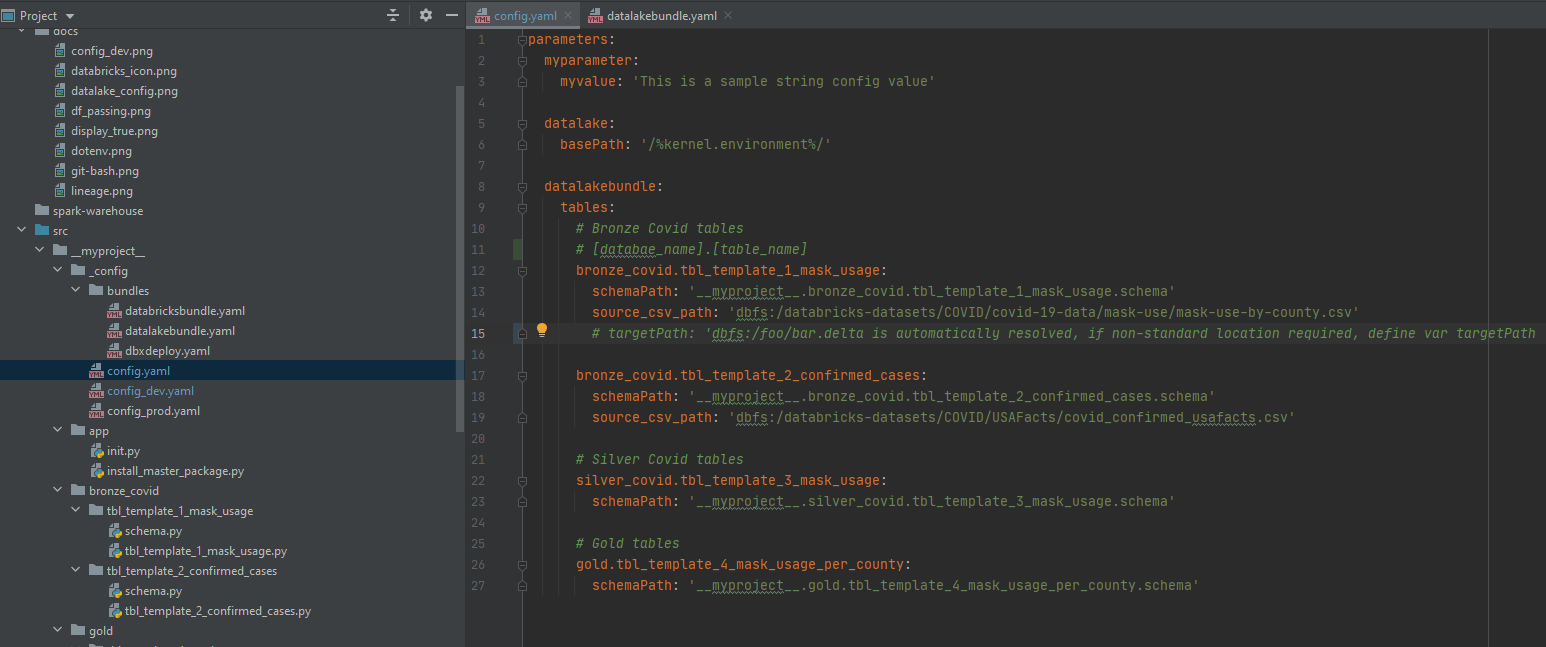
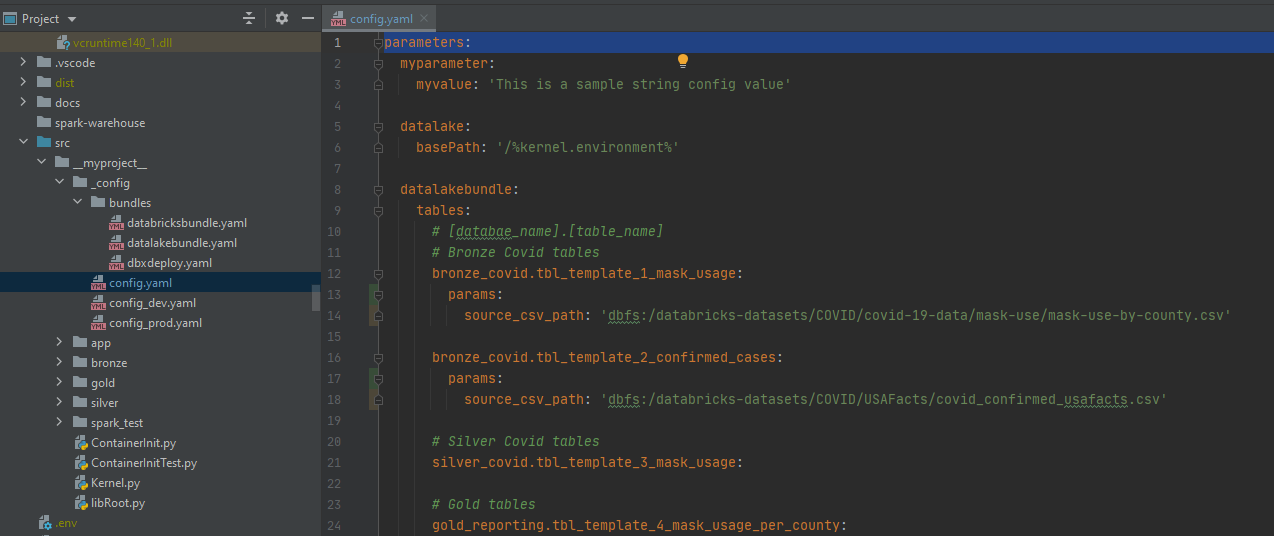
Added Widget and updated pipelines

Changed region(s): [[0.0, 0.0, 1.0, 1.0]]

diff --git a/src/__myproject__/bronze/covid/tbl_template_2_confirmed_cases/tbl_template_2_confirmed_cases.py b/src/__myproject__/bronze/covid/tbl_template_2_confirmed_cases/tbl_template_2_confirmed_cases.py
@@ -1,4 +1,46 @@
 # Databricks notebook source
+# MAGIC %md
+# MAGIC <img src="https://github.com/richardcerny/bricksflow/raw/rc-template-notebooks/docs/databricks_icon.png?raw=true" width=100/> 
+# MAGIC # Bricksflow example 2.
+# MAGIC 
+# MAGIC ## Tables over files
+# MAGIC You know parquet or delta, right. It is great format to store data. But for Data analyst it might be difficult to find and load these files for Blob Storage or S3. Because of that we try to keep everything in tables that are stored in Hive Metastore (=this is list of database and tables that show after opening Data icon on the left). Data analyst can just do quick analysys with SQL quickly and doesn't need to bother about loading paruqet format.
+# MAGIC 
+# MAGIC 
+# MAGIC ## Datalake structure
+# MAGIC There are many ways how to create database and table names. You can see two approaches in DataSentics. They are pretty similar just the naming is used  bit differently. As the common concept used by Datalake is Bronze, Silver, Gold. Before this become common we used sometinhg similar Raw, Parsed, Cleansed.
+# MAGIC 
+# MAGIC **Key concept of Datalake created by DataSentics:**
+# MAGIC - according to database and table name it is possible to find raw data in Storage and notebook/script that creates it and other way arround
+# MAGIC - keep all source files
+# MAGIC - ONE notebook/script creates only ONE table
+# MAGIC - tables are defined in config (not hardcoded in the code)
+# MAGIC - table schema is tight to the script/notebook
+# MAGIC - data is written to a table (not to a file)
+# MAGIC - ...
+# MAGIC 
+# MAGIC ## Datalake structure in Bricksflow
+# MAGIC Bricksflow uses so called Datalake bundle to maintain all tables within a config so you always now which tables are in use.
+# MAGIC By default it requires just a table name and it resolves the path where to save data automatically.
+# MAGIC 
+# MAGIC ##### Example of config.yaml
+# MAGIC <img src="https://github.com/richardcerny/bricksflow/raw/rc-template-notebooks/docs/datalake_config.png?raw=true" width=1200/> 
+# MAGIC 
+# MAGIC Non-default setting:
+# MAGIC - If you want to adjust Storage path resolver you can find it here: ``\src\__myproject__\_config\bundles\datalakebundle.yaml`. It uses simple python find function to split the table names according "_".
+# MAGIC - If you need exact path you can use variable `targetPath` to save a table to desired location. See commented example in config.yaml in picture above.
+# MAGIC 
+# MAGIC 
+# MAGIC 
+# MAGIC ### 1. Common Datalake layers Bronze, Silver, Gold
+# MAGIC Todo Image
+# MAGIC 
+# MAGIC ### 2. ADAP Layers dataoneoff, dataregular, solutions
+# MAGIC Todo Image
+# MAGIC 
+
+# COMMAND ----------
+
 # MAGIC %run ../../../app/install_master_package
 
 # COMMAND ----------
@@ -12,15 +54,17 @@ from datalakebundle.table.TableNames import TableNames
 
 # COMMAND ----------
 
-@dataFrameLoader(display=False)
-def read_csv_covid_confirmed_usafacts(spark: SparkSession):
+@dataFrameLoader("%datalakebundle.tables%", display=False)
+def read_csv_covid_confirmed_usafacts(parameters_datalakebundle, spark: SparkSession, logger: Logger):
+    source_csv_path = parameters_datalakebundle['bronze_covid.tbl_template_2_confirmed_cases']['params']['source_csv_path']
+    logger.info(f"Reading CSV from source path: `{source_csv_path}`.")
     return (
         spark
             .read
             .format('csv')
             .option('header', 'true')
             .option('inferSchema', 'true')
-            .load('dbfs:/databricks-datasets/COVID/USAFacts/covid_confirmed_usafacts.csv')
+            .load(source_csv_path)
     )
 
 # COMMAND ----------
@@ -34,10 +78,86 @@ def rename_columns(df: DataFrame):
 
 # COMMAND ----------
 
-@dataFrameSaver(rename_columns)
-def save_confirmed_cases(df: DataFrame, logger: Logger, tableNames: TableNames, tableManager: TableManager):
-    schema = tableManager.getSchema('bronze_covid.tbl_template_2_confirmed_cases')
+# MAGIC %md 
+# MAGIC #### Table schema
+# MAGIC Each table defined in config must be tight with its schema. So you need to create schema of a table if you need to create it.
+# MAGIC But don`t worry creating a schema is one of the last step you need to do while creating pipeline. Use display instead to show temporary results. Once you are happy with the result and you know exactly which columns are necessay then create a  schema.
+# MAGIC 
+# MAGIC <img src="https://github.com/richardcerny/bricksflow/raw/rc-template-notebooks/docs/table_schema.png?raw=true"/> 
+# MAGIC 
+# MAGIC 
+# MAGIC 
+# MAGIC You can get your defined schema from config using this command example:
+# MAGIC `schema = tableManager.getSchema('bronze_covid.tbl_template_2_confirmed_cases')`
+# MAGIC 
+# MAGIC 
+# MAGIC TODO add schema generator to Bricksflow 
+# MAGIC print(createPysparkSchema(add_parameter_from_config_df.schema))
 
+# COMMAND ----------
+
+# MAGIC %md
+# MAGIC TIP: Did you know that each function returns a dataframe. So if you need to test someting or get a schema for example, you can quickly do discovery on the dataframe produced by function. Just add postfix _df to function name and you can access the dataframe.
+# MAGIC 
+# MAGIC 
+# MAGIC 
+# MAGIC <img src="https://github.com/richardcerny/bricksflow/raw/rc-template-notebooks/docs/function_returns_df.png?raw=true"/> 
+# MAGIC 
+
+# COMMAND ----------
+
+print(rename_columns_df.printSchema())
+
+# COMMAND ----------
+
+# MAGIC %md
+# MAGIC #### Table Manager
+# MAGIC You have your table and schema defined in config, so you can now do number of thing with it and Table Manager will take care of the thing underhood - saves data to right path, solves different environments.
+# MAGIC 
+# MAGIC It gives you these options which you can use:
+# MAGIC - create -> create table (if already exists it throws an error)
+# MAGIC - delete -> delete table
+# MAGIC - recreate -> deleta and create a table (old data removed - also Delta log is removed => no Time travel)
+# MAGIC - exists -> check table existence and returns True/False
+# MAGIC - getSchema -> returns defined schema
+# MAGIC 
+# MAGIC Check examples of using these commands in cells bellow.
+
+# COMMAND ----------
+
+# DBTITLE 1,a) You want create a table once and than append data use 'exists' & 'create'
+@dataFrameSaver(rename_columns)
+def save_table_ronze_covid_tbl_template_2_confirmed_cases(df: DataFrame, logger: Logger, tableNames: TableNames, tableManager: TableManager):
+    outputTableName = tableNames.getByAlias('bronze_covid.tbl_template_2_confirmed_cases')
+    
+    # TableManager
+    # get defined schema
+    schema = tableManager.getSchema('bronze_covid.tbl_template_2_confirmed_cases')
+    
+    # Example of delete command
+    #tableManager.delete('bronze_covid.tbl_template_2_confirmed_cases')
+
+    if tableManager.exists('bronze_covid.tbl_template_2_confirmed_cases'):
+        logger.info(f"Table {outputTableName} exists. Appending...")
+    else:
+        tableManager.create('bronze_covid.tbl_template_2_confirmed_cases')
+        
+    logger.info(f"Saving data to table: {outputTableName}")
+    (
+        df
+            .select([field.name for field in schema.fields]) # Usage of schema from getSchema
+            .write
+            .option('partitionOverwriteMode', 'dynamic')
+            .insertInto(outputTableName)
+    )
+
+# COMMAND ----------
+
+# DBTITLE 1,b) You want a table to be created each run from scratch - use 'recreate'
+@dataFrameSaver(rename_columns)
+def save_table_ronze_covid_tbl_template_2_confirmed_cases(df: DataFrame, logger: Logger, tableNames: TableNames, tableManager: TableManager):
+    schema = tableManager.getSchema('bronze_covid.tbl_template_2_confirmed_cases')
+    
     tableManager.recreate('bronze_covid.tbl_template_2_confirmed_cases')
 
     outputTableName = tableNames.getByAlias('bronze_covid.tbl_template_2_confirmed_cases')

diff --git a/src/__myproject__/gold/solutions/template_5_solution/template_5_solution.py b/src/__myproject__/gold/solutions/template_5_solution/template_5_solution.py
@@ -14,29 +14,44 @@
 
 # COMMAND ----------
 
+
+
+# COMMAND ----------
+
+
+
+# COMMAND ----------
+
 # DBTITLE 1,Databricks widget options
-dbutils.widgets.help()
+dbutils.widgets.help() # just advice for you :)
 
 # COMMAND ----------
 
 from logging import Logger
+from datalakebundle.table.TableManager import TableManager
+from pyspark.sql import SparkSession
 from pyspark.sql.dataframe import DataFrame
-from pyspark.sql import functions as F, SparkSession
-from datetime import datetime
-from databricksbundle.pipeline.decorator.loader import dataFrameLoader, transformation, dataFrameSaver
+from databricksbundle.notebook.decorators import dataFrameLoader, transformation, dataFrameSaver, notebookFunction
 from datalakebundle.table.TableNames import TableNames
+
+from pyspark.sql import functions as F
+from pyspark.dbutils import DBUtils # enables to use Datbricks dbutils within functions
 
 # COMMAND ----------
 
-dbutils.widgets.text("widget_states", "CA", 'States') # Examples: CA, IL, IN,...
-widgetStatesVariable = dbutils.widgets.get("widget_states")
+# DBTITLE 1,Create a widget
+@notebookFunction()
+def create_input_widgets(dbutils: DBUtils):
+  dbutils.widgets.text("widget_states", "CA", 'States') # Examples: CA, IL, IN,...
+  dbutils.widgets.dropdown("widget_year", '2020', ['2018', '2019', '2020'], 'Example Dropdown Widget') # Examples: CA, IL, IN,...
 
 # COMMAND ----------
 
 # DBTITLE 1,Usage of widget variable
-@dataFrameLoader(widgetStatesVariable, display=True)
-def read_bronze_covid_tbl_template_2_confirmed_case(stateName: str, spark: SparkSession, logger: Logger, tableNames: TableNames):
-    logger.info(f"States Widget value: {state}")
+@dataFrameLoader(display=True)
+def read_bronze_covid_tbl_template_2_confirmed_case(spark: SparkSession, logger: Logger, tableNames: TableNames, dbutils: DBUtils):
+    stateName = dbutils.widgets.get("widget_states")
+    logger.info(f"States Widget value: {stateName}")
     return (
         spark
             .read
@@ -47,4 +62,20 @@ def read_bronze_covid_tbl_template_2_confirmed_case(stateName: str, spark: Spark
 
 # COMMAND ----------
 
-# next commands
+@transformation(read_bronze_covid_tbl_template_2_confirmed_case, display=True)
+def add_year_value(df: DataFrame, logger: Logger, dbutils: DBUtils):
+    yearWidget = dbutils.widgets.get("widget_year")
+    logger.info(f"Year Widget value: {yearWidget}")
+    return (
+        df
+          .withColumn('WIDGET_YEAR', F.lit(yearWidget))
+    )
+
+# COMMAND ----------
+
+# other commands
+
+# COMMAND ----------
+
+# DBTITLE 1,Command to remove all Widget
+#dbutils.widgets.removeAll()

diff --git a/src/__myproject__/bronze/covid/tbl_template_1_mask_usage/tbl_template_1_mask_usage.py b/src/__myproject__/bronze/covid/tbl_template_1_mask_usage/tbl_template_1_mask_usage.py
@@ -51,12 +51,14 @@
 # COMMAND ----------
 
 # DBTITLE 1,All your imports should be placed up here 
-from logging import Logger
 from datetime import datetime
 from pyspark.sql import functions as F, SparkSession
+
+from logging import Logger
+from datalakebundle.table.TableManager import TableManager
+from pyspark.sql import SparkSession
 from pyspark.sql.dataframe import DataFrame
-from databricksbundle.pipeline.decorator.loader import dataFrameLoader, transformation, dataFrameSaver
-# Datalake Bundle
+from databricksbundle.notebook.decorators import dataFrameLoader, transformation, dataFrameSaver
 from datalakebundle.table.TableNames import TableNames
 
 # COMMAND ----------
@@ -80,7 +82,7 @@ from datalakebundle.table.TableNames import TableNames
 # Check 
 @dataFrameLoader("%datalakebundle.tables%", display=False)
 def read_csv_mask_usage(parameters_datalakebundle, spark: SparkSession, logger: Logger):
-    source_csv_path = parameters_datalakebundle['bronze_covid.tbl_template_1_mask_usage']['source_csv_path']
+    source_csv_path = parameters_datalakebundle['bronze_covid.tbl_template_1_mask_usage']['params']['source_csv_path']
     logger.info(f"Reading CSV from source path: `{source_csv_path}`.")
     return (
         spark
@@ -142,7 +144,11 @@ def add_column_insert_ts(df: DataFrame, logger: Logger):
 # COMMAND ----------
 
 @dataFrameSaver(add_column_insert_ts)
-def save_table_bronze_covid_tbl_template_1_mask_usage(df: DataFrame, logger: Logger, tableNames: TableNames):
+def save_table_bronze_covid_tbl_template_1_mask_usage(df: DataFrame, logger: Logger, tableNames: TableNames,  tableManager: TableManager):
+    
+    # Recreate = removed table and create again
+    tableManager.recreate('bronze_covid.tbl_template_1_mask_usage')
+    
     outputTableName = tableNames.getByAlias('bronze_covid.tbl_template_1_mask_usage')
     logger.info(f"Saving data to table: {outputTableName}")
     (

diff --git a/src/__myproject__/silver/covid/tbl_template_3_mask_usage/tbl_template_3_mask_usage.py b/src/__myproject__/silver/covid/tbl_template_3_mask_usage/tbl_template_3_mask_usage.py
@@ -24,11 +24,21 @@
 
 # COMMAND ----------
 
-from logging import Logger
-from pyspark.sql.dataframe import DataFrame
+
+
+# COMMAND ----------
+
+
+
+# COMMAND ----------
+
 from pyspark.sql import functions as F, SparkSession
 from datetime import datetime
-from databricksbundle.pipeline.decorator.loader import dataFrameLoader, pipelineFunction, transformation, dataFrameSaver
+from logging import Logger
+from datalakebundle.table.TableManager import TableManager
+from pyspark.sql import SparkSession
+from pyspark.sql.dataframe import DataFrame
+from databricksbundle.notebook.decorators import dataFrameLoader, transformation, dataFrameSaver
 from datalakebundle.table.TableNames import TableNames
 
 # COMMAND ----------
@@ -63,9 +73,13 @@ def add_parameter_from_config(config_yaml_parameter, df: DataFrame):
 # COMMAND ----------
 
 @dataFrameSaver(add_parameter_from_config)
-def save_table_silver_covid_tbl_template_3_mask_usage(df: DataFrame, logger: Logger, tableNames: TableNames):
-
+def save_table_silver_covid_tbl_template_3_mask_usage(df: DataFrame, logger: Logger, tableNames: TableNames, tableManager: TableManager):
     outputTableName = tableNames.getByAlias('silver_covid.tbl_template_3_mask_usage')
+    if tableManager.exists('silver_covid.tbl_template_3_mask_usage'):
+        logger.info(f"Table {outputTableName} exists. Appending...")
+    else:
+        tableManager.create('silver_covid.tbl_template_3_mask_usage')
+    
     logger.info(f"Saving data to table: {outputTableName}")
     (
         df

diff --git a/src/__myproject__/gold/reporting/tbl_template_4_mask_usage_per_county/tbl_template_4_mask_usage_per_county.py b/src/__myproject__/gold/reporting/tbl_template_4_mask_usage_per_county/tbl_template_4_mask_usage_per_county.py
@@ -26,11 +26,12 @@
 
 # COMMAND ----------
 
+from pyspark.sql import functions as F
 from logging import Logger
+from datalakebundle.table.TableManager import TableManager
+from pyspark.sql import SparkSession
 from pyspark.sql.dataframe import DataFrame
-from pyspark.sql import functions as F, SparkSession
-from datetime import datetime
-from databricksbundle.pipeline.decorator.loader import dataFrameLoader, transformation, dataFrameSaver
+from databricksbundle.notebook.decorators import dataFrameLoader, transformation, dataFrameSaver
 from datalakebundle.table.TableNames import TableNames
 
 # COMMAND ----------
@@ -92,9 +93,10 @@ def standardize_dataset(df: DataFrame):
 # COMMAND ----------
 
 @dataFrameSaver(standardize_dataset)
-def save_table_gold_tbl_template_4_mask_usage_per_count(df: DataFrame, logger: Logger, tableNames: TableNames):
-
+def save_table_gold_tbl_template_4_mask_usage_per_count(df: DataFrame, logger: Logger, tableNames: TableNames, tableManager: TableManager):
+    
     outputTableName = tableNames.getByAlias('gold_reporting.tbl_template_4_mask_usage_per_county')
+    tableManager.recreate('gold_reporting.tbl_template_4_mask_usage_per_county')
     logger.info(f"Saving data to table: {outputTableName}")
     (
         df

diff --git a/src/__myproject__/gold/solutions/template_5_solution/schema.py b/src/__myproject__/gold/solutions/template_5_solution/schema.py
@@ -1,0 +1,12 @@
+import pyspark.sql.types as T
+def getSchema():
+    return T.StructType([
+                T.StructField('EXECUTE_DATE', T.DateType(), True),
+                T.StructField('COUNTY_NAME', T.StringType(), True),
+                T.StructField('CONFIG_YAML_PARAMETER', T.StringType(), True),
+                T.StructField('AVG_NEVER', T.DoubleType(), True),
+                T.StructField('AVG_RARELY', T.IntegerType(), True),
+                T.StructField('AVG_SOMETIMES', T.IntegerType(), True),
+                T.StructField('AVG_FREQUENTLY', T.IntegerType(), True),
+                T.StructField('AVG_ALWAYS', T.IntegerType(), True),
+            ])
